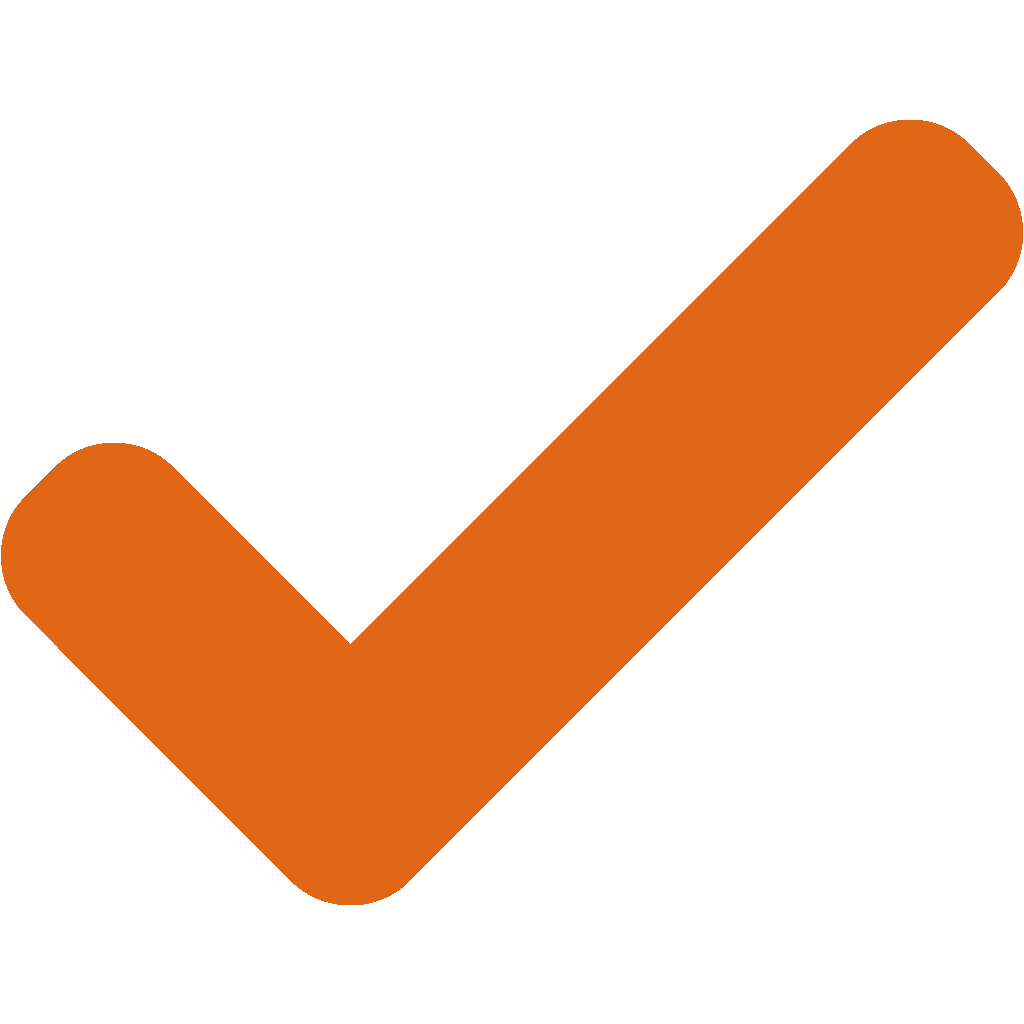
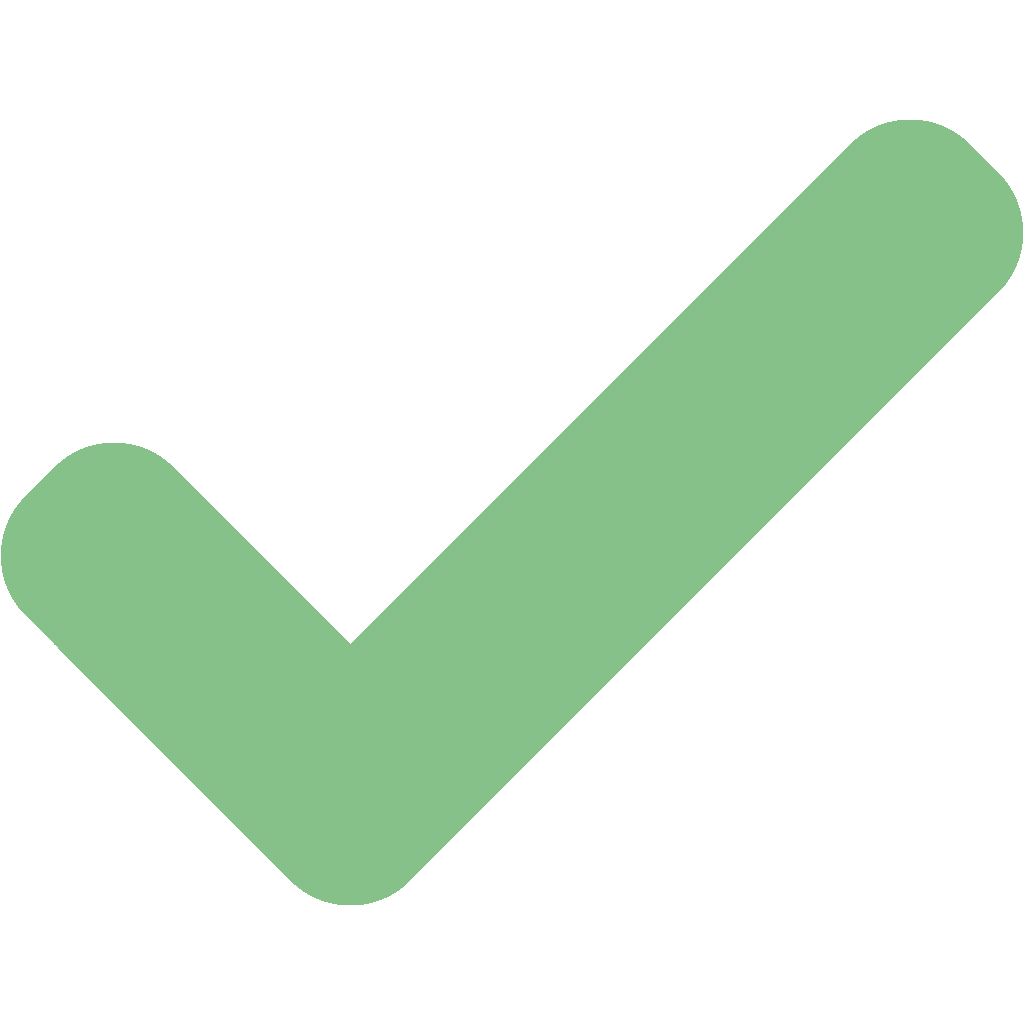
fixes

Changed region(s): [[0.0, 0.0938, 1.0, 0.9062]]

diff --git a/src/sass/index.css b/src/sass/index.css
@@ -360,7 +360,7 @@ body.menu-open {
   height: 80px;
   border-radius: 30px;
   border-style: none;
-  background-color: #c56723;
+  background: linear-gradient(261.62deg, rgba(255, 255, 255, 0.2) -1.02%, rgba(255, 255, 255, 0) 43.22%), linear-gradient(94.88deg, #98c08a 5.19%, #78aa67 57.4%);
   color: white;
   font-size: 14px;
   line-height: 65px;
@@ -822,7 +822,7 @@ select:focus {
 }
 
 .main-card-info {
-  background-color: #a54602;
+  background: linear-gradient(261.62deg, rgba(255, 255, 255, 0.2) -1.02%, rgba(255, 255, 255, 0) 43.22%), linear-gradient(94.88deg, #98c08a 5.19%, #78aa67 57.4%);
   color: white;
   display: flex;
   justify-content: center;
@@ -882,7 +882,7 @@ select:focus {
 .info-img-cont {
   padding-top: 0px;
   margin-top: 10px;
-  background-color: #a54602;
+  background: linear-gradient(261.62deg, rgba(255, 255, 255, 0.2) -1.02%, rgba(255, 255, 255, 0) 43.22%), linear-gradient(94.88deg, #98c08a 5.19%, #78aa67 57.4%);
   border-radius: 10px;
 }
 

diff --git a/src/index.html b/src/index.html
@@ -70,8 +70,8 @@
            <a href="#hero">
              <img
               src="./images/logo.png"
-              width="70px"
-              height="70px"
+              width="80px"
+              height="80px"
               alt=""
               class="header-logo"
             />
@@ -123,7 +123,7 @@
             ДОШКА, РЕЙКА, БРУС <br />
             З ДОСТАВКОЮ ПО УКРАЇНІ<br />
           </h1>
-          <p class="hero-price">від 5500 грн./м3</p>
+          <p class="hero-price">від 4000 грн./м3</p>
           <div class="hero-info-container">
             <ul class="hero-info-list">
               <li class="hero-list-item">

diff --git a/src/sass/components/_garant.scss b/src/sass/components/_garant.scss
@@ -6,7 +6,8 @@
 }
 
 .main-card-info {
-  background-color: #a54602;
+  background: linear-gradient(261.62deg, #fff3 -1.02%, #fff0 43.22%),
+    linear-gradient(94.88deg, #98c08a 5.19%, #78aa67 57.4%);
   color: white;
   display: flex;
   justify-content: center;
@@ -58,7 +59,8 @@
 .info-img-cont {
   padding-top: 0px;
   margin-top: 10px;
-  background-color: #a54602;
+  background: linear-gradient(261.62deg, #fff3 -1.02%, #fff0 43.22%),
+    linear-gradient(94.88deg, #98c08a 5.19%, #78aa67 57.4%);
   border-radius: 10px;
 }
 .to-right {

diff --git a/src/sass/components/_hero-section.scss b/src/sass/components/_hero-section.scss
@@ -49,7 +49,8 @@
   height: 80px;
   border-radius: 30px;
   border-style: none;
-  background-color: #c56723;
+  background: linear-gradient(261.62deg, #fff3 -1.02%, #fff0 43.22%),
+    linear-gradient(94.88deg, #98c08a 5.19%, #78aa67 57.4%);
   color: white;
   font-size: 14px;
   line-height: 65px;
